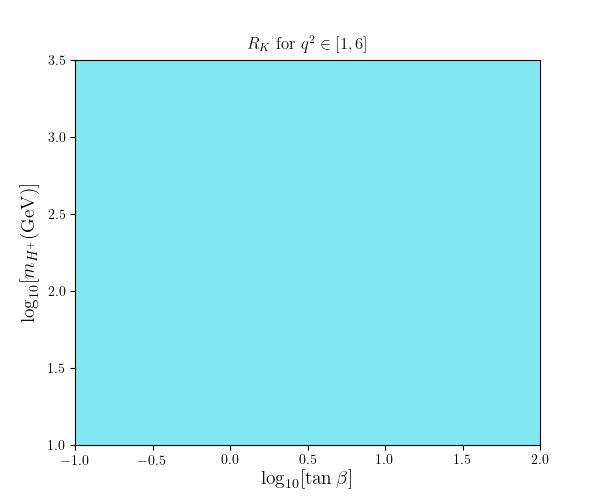
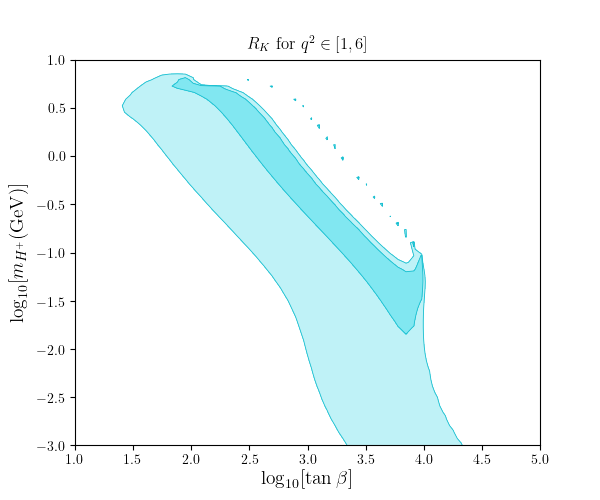
RK issues sorted, added Bs->Ds mode functionality

diff --git a/repl-glob.py b/repl-glob.py
@@ -2,11 +2,15 @@
 
 import flavio
 from flavio.statistics.likelihood import FastLikelihood
-from flavio.classes import Parameter
+from flavio.physics.bdecays.formfactors import b_v, b_p
+from flavio.classes import Parameter, AuxiliaryQuantity, Implementation
+from flavio.config import config
 import flavio.plots as fpl
 import matplotlib.pyplot as plt
 import numpy as np
 from functions import *
+
+#### parameter setting
 
 # should add these to flavio's yml doc at some point, but this will do for now
 pars = flavio.default_parameters
@@ -36,10 +40,35 @@ pars.set_constraint('bag_Bs_4','1.031 +- 0.035')
 pars.set_constraint('bag_Bs_5','0.959 +- 0.031')
 pars.set_constraint('eta_tt_Bs','0.537856') # Alex, private correspondence
 
+#### defining Bs->Ds(*)lnu
+
+def ff_function(function, process, **kwargs):
+    return lambda wc_obj, par_dict, q2: function(process, q2, par_dict, **kwargs)
+
+config['implementation']['Bs->Ds* form factor'] = 'Bs->Ds* CLN' 
+bsds = AuxiliaryQuantity('Bs->Ds* form factor') 
+bsdsi = Implementation(name='Bs->Ds* CLN',quantity='Bs->Ds* form factor',function=ff_function(b_v.cln.ff,'Bs->Ds*',scale=config['renormalization scale']['bvll']))
+bsdsi.set_description("CLN parameterization")
+#print(flavio.sm_prediction('BR(Bs->Ds*munu)')*1e2)
+#print(flavio.sm_uncertainty('BR(Bs->Ds*munu)')*1e2)
+
+config['implementation']['Bs->Ds form factor'] = 'Bs->Ds CLN'
+bsd = AuxiliaryQuantity('Bs->Ds form factor')
+bsdi = Implementation(name='Bs->Ds CLN',quantity='Bs->Ds form factor',function=ff_function(b_p.cln.ff,'Bs->Ds',scale=config['renormalization scale']['bpll']))
+bsdsi.set_description("CLN parameterization")
+#print(flavio.sm_prediction('BR(Bs->Dsmunu)')*1e2)
+#print(flavio.sm_uncertainty('BR(Bs->Dsmunu)')*1e2)
+
+#print(flavio.functions.get_dependent_parameters_sm('BR(Bs->Dsmunu)'))   
+
+#### fitting stuff
+
 flavio.measurements.read_file('world_avgs.yml') # read in the world averages we want to use
 
-flavio.config['renormalization scale']['bxgamma'] = 1.74
+config['renormalization scale']['bxgamma'] = 1.74
+
 sigmas = (1,2)
+#sigmas = (3,4)
 
 my_obs = [
     'BR(B+->taunu)', 'BR(B+->munu)', 'BR(D+->munu)', 'BR(Ds->munu)', 'BR(Ds->taunu)', 'BR(tau->Knu)', 'BR(K+->munu)', 'BR(tau->pinu)', 'Gamma(pi+->munu)', # [:9]
@@ -53,54 +82,16 @@ my_obs = [
     ("<Rmue>(B0->K*ll)", 1.1, 6.0), # [40]
 ]
 
-#print("For mH0 = 1500 GeV, mH+ = 1000 GeV, b = pi/4, a = -pi/4:")
-#print()
-#par = flavio.default_parameters.get_central_all()
-#ckm_els = flavio.physics.ckm.get_ckm(par) # get out all the CKM elements
-#mH0 = 1500
-#mH = 500
-#tanb = 0.2#np.tan(np.pi/4)
-#C7, C7p, C8, C8p = bsgamma2(par,ckm_els,flavio.config['renormalization scale']['bxgamma'],tanb,mH)
-#C9_s, C9p_s, C10_s, C10p_s, CS_s, CSp_s, CP_s, CPp_s = bsll(par,ckm_els,['m_s','m_d',1],['m_mu','m_e',1],mH0,tanb,mH)
-#wc = flavio.WilsonCoefficients()
-#wc.set_initial({ # tell flavio what WCs you're referring to with your variables
-#        'C10_bsmumu': C10_s,'C10p_bsmumu': C10p_s,'CS_bsmumu': CS_s,'CSp_bsmumu': CSp_s,'CP_bsmumu': CP_s,'CPp_bsmumu': CPp_s, # Bs->mumu
-#    }, scale=4.2, eft='WET', basis='flavio')
-#C9_se, C9p_se, C10_se, C10p_se, CS_se, CSp_se, CP_se, CPp_se = bsll(par,ckm_els,['m_s','m_d',1],['m_e','m_mu',1],mH0,tanb,mH)
-#print("C7:",C7)
-#print()
-#print("C7':",C7p)
-#print()
-#print("C8:",C8)
-#print()
-#print("C8':",C8p)
-#print()
-#print("C9 e:",C9_se)
-#print()
-#print("C9' e:",C9p_se)
-#print()
-#print("C9 mu:",C9_s)
-#print()
-#print("C9' mu:",C9p_s)
-#print()
-#print("C10 e:",C10_se)
-#print()
-#print("C10' e:",C10p_se)
-#print()
-#print("C10 mu:",C10_s)
-#print()
-#print("C10' mu:",C10p_s)
-#print()
-#print("SM:",flavio.sm_prediction('BR(Bs->mumu)'))
-#print("2HDM BR:",flavio.np_prediction('BR(Bs->mumu)',wc))
-#print("2HDM BR error:",flavio.np_uncertainty('BR(Bs->mumu)',wc))
-#quit()
+obs2 = [
+    'BR(Bs->Dsmunu)','BR(Bs->Ds*munu)',
+]
 
 #------------------------------
 #   Leptonic and Semileptonic Tree Levels
 #------------------------------
 
-Fleps = FastLikelihood(name="trees",observables=my_obs[:9]+my_obs[14:38],include_measurements=['Tree Level Leptonics','LFU D Ratios','Tree Level Semileptonics']) 
+#Fleps = FastLikelihood(name="trees",observables=my_obs[:9]+my_obs[14:38],include_measurements=['Tree Level Leptonics','LFU D Ratios','Tree Level Semileptonics']) 
+Fleps = FastLikelihood(name="trees",observables=obs2,include_measurements=['Tree Level Semileptonics']) 
 Fleps.make_measurement(N=500,threads=4)
 
 def leps(wcs):
@@ -109,31 +100,31 @@ def leps(wcs):
     par = flavio.default_parameters.get_central_all()
     ckm_els = flavio.physics.ckm.get_ckm(par) # get out all the CKM elements
 
-    CSR_b, CSL_b = rh(par['m_u'],par['m_b'],10**tanb,10**mH)
-    CSR_d, CSL_d = rh(par['m_c'],par['m_d'],10**tanb,10**mH)
-    CSR_ds, CSL_ds = rh(par['m_c'],par['m_s'],10**tanb,10**mH)
-    CSR_k, CSL_k = rh(par['m_u'],par['m_s'],10**tanb,10**mH)
-    CSR_p, CSL_p = rh(par['m_u'],par['m_d'],10**tanb,10**mH)
+#    CSR_b, CSL_b = rh(par['m_u'],par['m_b'],10**tanb,10**mH)
+#    CSR_d, CSL_d = rh(par['m_c'],par['m_d'],10**tanb,10**mH)
+#    CSR_ds, CSL_ds = rh(par['m_c'],par['m_s'],10**tanb,10**mH)
+#    CSR_k, CSL_k = rh(par['m_u'],par['m_s'],10**tanb,10**mH)
+#    CSR_p, CSL_p = rh(par['m_u'],par['m_d'],10**tanb,10**mH)
     CSL_bc, CSR_bc = rh(par['m_c'],par['m_b'],10**tanb,10**mH)
 
     wc = flavio.WilsonCoefficients()
     wc.set_initial({ # tell flavio what WCs you're referring to with your variables
-            'CSR_bctaunutau': CSR_bc, 'CSL_bctaunutau': CSL_bc,
+#            'CSR_bctaunutau': CSR_bc, 'CSL_bctaunutau': CSL_bc,
             'CSR_bcmunumu': CSR_bc, 'CSL_bcmunumu': CSL_bc,
-            'CSR_bcenue': CSR_bc, 'CSL_bcenue': CSL_bc, 
-            'CSR_butaunutau': CSR_b, 'CSL_butaunutau': CSL_b,
-            'CSR_bumunumu': CSR_b, 'CSL_bumunumu': CSL_b,
-            'CSR_buenue': CSR_b, 'CSL_buenue': CSL_b, 
-            'CSR_dcmunumu': CSR_d, 'CSL_dcmunumu': CSL_d,
-            'CSR_dcenue': CSR_d, 'CSL_dcenue': CSL_d, 
-            'CSR_sctaunutau': CSR_ds, 'CSL_sctaunutau': CSL_ds,
-            'CSR_scmunumu': CSR_ds, 'CSL_scmunumu': CSL_ds,
-            'CSR_scenue': CSR_ds, 'CSL_scenue': CSL_ds, 
-            'CSR_sutaunutau': CSR_k, 'CSL_sutaunutau': CSL_k, 
-            'CSR_sumunumu': CSR_k, 'CSL_sumunumu': CSL_k, 
-            'CSR_suenue': CSR_k, 'CSL_suenue': CSL_k, 
-            'CSR_dutaunutau': CSR_p, 'CSL_dutaunutau': CSL_p, 
-            'CSR_dumunumu': CSR_p, 'CSL_dumunumu': CSL_p, 
+#            'CSR_bcenue': CSR_bc, 'CSL_bcenue': CSL_bc, 
+#            'CSR_butaunutau': CSR_b, 'CSL_butaunutau': CSL_b,
+#            'CSR_bumunumu': CSR_b, 'CSL_bumunumu': CSL_b,
+#            'CSR_buenue': CSR_b, 'CSL_buenue': CSL_b, 
+#            'CSR_dcmunumu': CSR_d, 'CSL_dcmunumu': CSL_d,
+#            'CSR_dcenue': CSR_d, 'CSL_dcenue': CSL_d, 
+#            'CSR_sctaunutau': CSR_ds, 'CSL_sctaunutau': CSL_ds,
+#            'CSR_scmunumu': CSR_ds, 'CSL_scmunumu': CSL_ds,
+#            'CSR_scenue': CSR_ds, 'CSL_scenue': CSL_ds, 
+#            'CSR_sutaunutau': CSR_k, 'CSL_sutaunutau': CSL_k, 
+#            'CSR_sumunumu': CSR_k, 'CSL_sumunumu': CSL_k, 
+#            'CSR_suenue': CSR_k, 'CSL_suenue': CSL_k, 
+#            'CSR_dutaunutau': CSR_p, 'CSL_dutaunutau': CSL_p, 
+#            'CSR_dumunumu': CSR_p, 'CSL_dumunumu': CSL_p, 
         }, scale=4.2, eft='WET', basis='flavio')
     return Fleps.log_likelihood(par,wc)
 
@@ -186,7 +177,7 @@ def rad(wcs):
 #   B(s/d) -> mumu + R(K) & R(K*)
 #------------------------------
 
-Fmu = FastLikelihood(name="mu",observables=my_obs[-3:],include_measurements=['LFU K Ratios']) 
+Fmu = FastLikelihood(name="mu",observables=my_obs[-2:],include_measurements=['LFU K Ratios']) 
 #Fmu = FastLikelihood(name="mu",observables=my_obs[12:14],include_measurements=['FCNC Leptonic Decays',]) 
 #Fmu = FastLikelihood(name="mu",observables=my_obs[12:14]+my_obs[-3:],include_measurements=['FCNC Leptonic Decays','LFU K Ratios']) 
 Fmu.make_measurement(N=500,threads=4)
@@ -275,10 +266,10 @@ def func(wcs):
 #   Get Contour Data
 #------------------------------
 
-#cleps = fpl.likelihood_contour_data(leps,-1,2,1,3.5, n_sigma=sigmas, threads=4, steps=60) 
+cleps = fpl.likelihood_contour_data(leps,-1,2,1,3.5, n_sigma=sigmas, threads=4, steps=60) 
 #cmix = fpl.likelihood_contour_data(mix,-1,2,1,3.5, n_sigma=sigmas, threads=4, steps=60) 
 #crad = fpl.likelihood_contour_data(rad,-1,2,1,3.5, n_sigma=sigmas, threads=4, steps=60) 
-cmu = fpl.likelihood_contour_data(mu,-1,2,0,3.5, n_sigma=sigmas, threads=4, steps=60) 
+#cmu = fpl.likelihood_contour_data(mu,-1,2,1,3.5, n_sigma=sigmas, threads=4, steps=60) 
 #cdat = fpl.likelihood_contour_data(func,-1,2,1,3.5, n_sigma=sigmas, threads=4, steps=60) 
 
 #------------------------------
@@ -296,13 +287,14 @@ cmu = fpl.likelihood_contour_data(mu,-1,2,0,3.5, n_sigma=sigmas, threads=4, step
 #   Plotting
 #------------------------------
 
-#plt.figure(figsize=(6,5))
-#fpl.contour(**cleps,col=2) 
-##plt.title('Tree Level Leptonic and Semileptonics and Hadronic Tau Decays')
-#plt.title(r'$\mathcal{R}(D)$ Individual Fit')
-#plt.xlabel(r'$\log_{10}[\tan\beta]$') 
-#plt.ylabel(r'$\log_{10}[m_{H^+} (\text{GeV})]$') 
-#plt.savefig('leps_plot.png')
+plt.figure(figsize=(6,5))
+fpl.contour(**cleps,col=2) 
+#plt.title('Tree Level Leptonic and Semileptonics and Hadronic Tau Decays')
+plt.title(r'$B_s\to D_s^{(*)}\mu\nu_\mu$ Fit')
+plt.xlabel(r'$\log_{10}[\tan\beta]$') 
+plt.ylabel(r'$\log_{10}[m_{H^+} (\text{GeV})]$') 
+plt.savefig('leps_plot.png')
+quit()
 
 #plt.figure(figsize=(6,5))
 #fpl.contour(**cmix,col=0) 
@@ -318,8 +310,17 @@ cmu = fpl.likelihood_contour_data(mu,-1,2,0,3.5, n_sigma=sigmas, threads=4, step
 #plt.ylabel(r'$\log_{10}[m_{H^+} (\text{GeV})]$') 
 #plt.savefig('bsgamma_plot.png')
 
+# (2.4,4.2,-1,1)
+z_min1 = -5.182818890948422
+# (1,3,0,3.5)
+z_min2 = -2.1479938777001504
+# (-1,2.5,0,3.5)
+z_min3 = 1.6111964187252177
+# (-1,2,0,3.5)
+z_min4 = 3.5229317450326256
+
 plt.figure(figsize=(6,5))
-fpl.contour(**cmu,col=9) 
+fpl.contour(**cmu,col=9)#,z_min=z_min1) 
 #plt.title(r'FCNC Leptonic B Decays ($B_{s,d}\to\mu^+\mu^-$), $m_{H^0}\sim m_{H^+}$')
 #plt.title(r'FCNC Leptonic B Decays ($B_{s,d}\to\mu^+\mu^-$), $m_{H^0}=1500\,$GeV')
 plt.title(r'$R_K$ for $q^2\in[1,6]$ \& $R_{K^{*0}}$ for $q^2\in[0.045,6]$')

diff --git a/functions.py b/functions.py
@@ -572,7 +572,7 @@ def mixing(par,CKM,mds,tanb,mH):
             ci += v2[i]*v3[i]*eu[i]*np.sqrt(zs[i])*I11(y,zs[2],zs[i])
         a = v2[0]*v3[0]*eu[0]*np.sqrt(zs[0])*ai
         b = v2[1]*v3[1]*eu[1]*np.sqrt(zs[1])*bi
-        c = v2[2]*v3[2]*eu[2]*np.sqrt(zs[2])#*ci
+        c = v2[2]*v3[2]*eu[2]*np.sqrt(zs[2])*ci
         return pref*(a+b+c) 
 
     def c4_2():

diff --git a/README.md b/README.md
@@ -21,18 +21,18 @@ _Research extension from [4th Year project](https://github.com/mbr-phys/cpviolat
 - [x] Add `R(D)`, `R(D*)`
 - [x] Look into resolving Bsgamma SM value - _modified in flavio's files to make it possible, still much higher fits than previously though_
 - [x] Add tree level semileptonics to fit - _same WCs as other tree levels so pretty simple_
-- [x] `RK` and `RK*` need added, uses same WCs as `Bsmumu` so simple enough - _essentially no constraint from these, why?_
+- [x] `RK` and `RK*` need added, uses same WCs as `Bsmumu` so simple enough 
 - [x] C7,8 contributions from Crivellin to `RK`, `RK*`, and `bsgamma` 
 - [x] Conclude from heatmap results for CKM modification - _might come back to this, but happy with conclusions that modification is negligible, see ckm_notes.tex_
 - [ ] Fit in wrong sign limit
 - [ ] Is there a reason `R(D)` and `R(D*)` are fitting simultaneously fine? They historically do not
 - [ ] Does the likelihood function change if observables are correlated or not?
-- [ ] Finish adding to `world_avgs.yml`
+- [x] Finish adding to `world_avgs.yml`
 
 ## General Project Stuff
 
-- [ ] Sort out WC language for observables not yet added
-- [ ] Sort out obliques - do we need to add WCs to the basis?
+- [x] Sort out WC language for observables not yet added
+- [ ] Sort out obliques - do we need to add WCs to the basis? _looks like easier just keeping these separte_
 - [ ] What do we do about extra parameters in fit when coming to SM4 etc?
-- [ ] Higgs signal strengths
+- [x] Higgs signal strengths _Oliver and James sorted these_
 - [ ] Is it better to use `Likelihood` instead of `FastLikelihood`?
